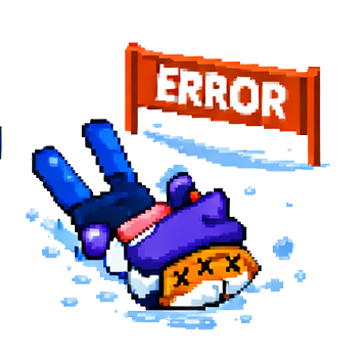
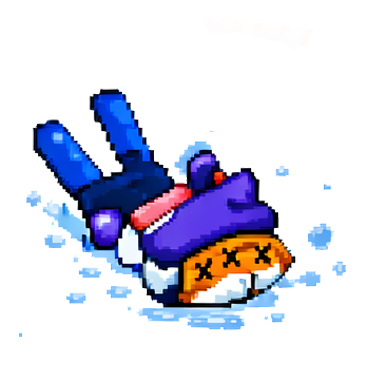
Add debug mode and improve finish line behavior
- Add debug mode (?debug=1) with collision circle visualization and toggle (C key)
- Widen finish line to full canvas width with auto-guide to empty spot
- Draw skier underneath finish banner for proper layering
- Make skier stop in front of finish line instead of on top
- Remove grey overlay from finish screen
- Increase initial speed to 16 for smoother video-to-game transition

🤖 Generated with [Claude Code](https://claude.com/claude-code)

diff --git a/game.js b/game.js
@@ -2,6 +2,11 @@
 const canvas = document.getElementById('gameCanvas');
 const ctx = canvas.getContext('2d');
 
+// Debug mode - enable with ?debug=1 in URL
+const urlParams = new URLSearchParams(window.location.search);
+const DEBUG_MODE = urlParams.get('debug') === '1';
+let collisionEnabled = true; // Can be toggled with 'C' key in debug mode
+
 // Load character sprites
 const sprites = {
     vooruit: new Image(),
@@ -52,9 +57,9 @@ const SKI_SPACING = 20;
 const TREE_WIDTH = 90;
 const TREE_HEIGHT = 110;
 
-// Finish line dimensions
-const FINISH_WIDTH = 400;
-const FINISH_HEIGHT = 200;
+// Finish line dimensions (full width, maintain aspect ratio)
+const FINISH_WIDTH = CANVAS_WIDTH;
+const FINISH_HEIGHT = 300; // Adjusted to maintain ratio with wider width
 
 // Preload start animation video
 const startVideo = document.createElement('video');
@@ -65,7 +70,7 @@ startVideo.playsInline = true;
 
 // Game state
 const gameState = {
-    speed: 3,
+    speed: 16,
     skiAngle: 0,
     skierX: CANVAS_WIDTH / 2,
     skierY: CANVAS_HEIGHT / 3,
@@ -198,8 +203,19 @@ function update() {
         finishLineY -= downhillSpeed;
     }
 
-    // Check for race completion (when skier crosses finish line)
-    if (finishLineY !== null && finishLineY < gameState.skierY) {
+    // Auto-guide player towards the finish line empty spot (x=200) when approaching
+    const FINISH_TARGET_X = 200; // The empty spot in the finish line
+    if (distanceToFinish < 400) {
+        // Gradually guide player towards the target X position
+        const guideFactor = 0.1; // How strongly to guide (higher = faster)
+        const diff = FINISH_TARGET_X - gameState.skierX;
+        gameState.skierX += diff * guideFactor;
+        // Also gradually straighten the ski angle
+        gameState.skiAngle *= 0.95;
+    }
+
+    // Check for race completion (when skier is well past finish line)
+    if (finishLineY !== null && finishLineY < gameState.skierY - 150) {
         gameState.phase = 'finished';
         return; // Stop updating
     }
@@ -276,24 +292,26 @@ function update() {
     }
 
     // Collision detection with trees - circular hitboxes on bottom half of sprites
-    const treeRadius = TREE_WIDTH / 3; // ~30px - covers bottom half of tree
-    const skierRadius = 25; // Covers bottom half of 80px sprite
-    for (let tree of trees) {
-        // Tree hitbox center is in the bottom half of the tree sprite
-        const treeHitX = tree.x;
-        const treeHitY = tree.y + TREE_HEIGHT / 4;
+    if (collisionEnabled) {
+        const treeRadius = TREE_WIDTH / 3; // ~30px - covers bottom half of tree
+        const skierRadius = 25; // Covers bottom half of 80px sprite
+        for (let tree of trees) {
+            // Tree hitbox center is in the bottom half of the tree sprite
+            const treeHitX = tree.x;
+            const treeHitY = tree.y + TREE_HEIGHT / 4;
 
-        // Skier hitbox center is in the bottom half of the skier sprite
-        const skierHitX = gameState.skierX;
-        const skierHitY = gameState.skierY + 15; // Offset down into bottom half
+            // Skier hitbox center is in the bottom half of the skier sprite
+            const skierHitX = gameState.skierX;
+            const skierHitY = gameState.skierY + 15; // Offset down into bottom half
 
-        // Check distance between hitbox centers
-        const dx = skierHitX - treeHitX;
-        const dy = skierHitY - treeHitY;
-        const distance = Math.sqrt(dx * dx + dy * dy);
-        if (distance < treeRadius + skierRadius) {
-            gameState.gameOver = true;
-            gameState.phase = 'crashed';
+            // Check distance between hitbox centers
+            const dx = skierHitX - treeHitX;
+            const dy = skierHitY - treeHitY;
+            const distance = Math.sqrt(dx * dx + dy * dy);
+            if (distance < treeRadius + skierRadius) {
+                gameState.gameOver = true;
+                gameState.phase = 'crashed';
+            }
         }
     }
 }
@@ -456,6 +474,44 @@ function formatTime(ms) {
     return `${minutes.toString().padStart(2, '0')}:${seconds.toString().padStart(2, '0')}.${milliseconds.toString().padStart(2, '0')}`;
 }
 
+// Draw debug overlay (collision boxes)
+function drawDebug() {
+    if (!DEBUG_MODE) return;
+
+    const treeRadius = TREE_WIDTH / 3;
+    const skierRadius = 25;
+
+    // Draw tree collision circles
+    ctx.strokeStyle = 'rgba(255, 0, 0, 0.7)';
+    ctx.lineWidth = 2;
+    for (let tree of trees) {
+        const treeHitX = tree.x;
+        const treeHitY = tree.y + TREE_HEIGHT / 4;
+        ctx.beginPath();
+        ctx.arc(treeHitX, treeHitY, treeRadius, 0, Math.PI * 2);
+        ctx.stroke();
+    }
+
+    // Draw skier collision circle
+    ctx.strokeStyle = collisionEnabled ? 'rgba(0, 255, 0, 0.7)' : 'rgba(255, 255, 0, 0.7)';
+    ctx.lineWidth = 2;
+    const skierHitX = gameState.skierX;
+    const skierHitY = gameState.skierY + 15;
+    ctx.beginPath();
+    ctx.arc(skierHitX, skierHitY, skierRadius, 0, Math.PI * 2);
+    ctx.stroke();
+
+    // Draw debug info text
+    ctx.fillStyle = 'rgba(0, 0, 0, 0.7)';
+    ctx.fillRect(5, CANVAS_HEIGHT - 60, 200, 55);
+    ctx.fillStyle = '#fff';
+    ctx.font = '14px Arial';
+    ctx.textAlign = 'left';
+    ctx.fillText('DEBUG MODE', 10, CANVAS_HEIGHT - 45);
+    ctx.fillText(`Collision: ${collisionEnabled ? 'ON' : 'OFF'} (press C to toggle)`, 10, CANVAS_HEIGHT - 28);
+    ctx.fillText(`Trees: ${trees.length}`, 10, CANVAS_HEIGHT - 11);
+}
+
 // Draw HUD
 function drawHUD() {
     ctx.fillStyle = '#333';
@@ -604,9 +660,6 @@ function drawLeaderboardTable(x, y) {
 
 // Draw finish screen
 function drawFinishScreen() {
-    ctx.fillStyle = 'rgba(0, 0, 0, 0.7)';
-    ctx.fillRect(0, 0, CANVAS_WIDTH, CANVAS_HEIGHT);
-
     ctx.textAlign = 'center';
     ctx.fillStyle = '#4CAF50';
     ctx.font = 'bold 56px Fibberish';
@@ -702,10 +755,11 @@ function render() {
         drawBackground();
         drawPisteBorders();
         drawTrails();
+        drawSkier(); // Draw skier before finish line so they go underneath
         drawFinishLine();
         drawTrees();
-        drawSkier();
         drawHUD();
+        drawDebug();
 
         // Draw overlay screens
         if (gameState.phase === 'finished') {
@@ -718,7 +772,7 @@ function render() {
 
 // Reset game state
 function resetGame() {
-    gameState.speed = 3;
+    gameState.speed = 16;
     gameState.skiAngle = 0;
     gameState.skierX = CANVAS_WIDTH / 2;
     gameState.gameOver = false;
@@ -743,7 +797,7 @@ function startRace() {
     gameState.playerName = '';
     gameState.nameSubmitted = false;
     gameState.gameOver = false;
-    gameState.speed = 3;
+    gameState.speed = 16;
     gameState.skiAngle = 0;
     gameState.skierX = CANVAS_WIDTH / 2;
     trees.length = 0;
@@ -815,6 +869,12 @@ function updateCrashed() {
 // Handle keyboard input for game control and name entry
 document.addEventListener('keydown', (e) => {
     const key = e.key;
+
+    // Debug: Toggle collision with C key
+    if (DEBUG_MODE && key.toLowerCase() === 'c') {
+        collisionEnabled = !collisionEnabled;
+        return;
+    }
 
     // Menu: SPACE to start animation
     if (gameState.phase === 'menu' && key === ' ') {
